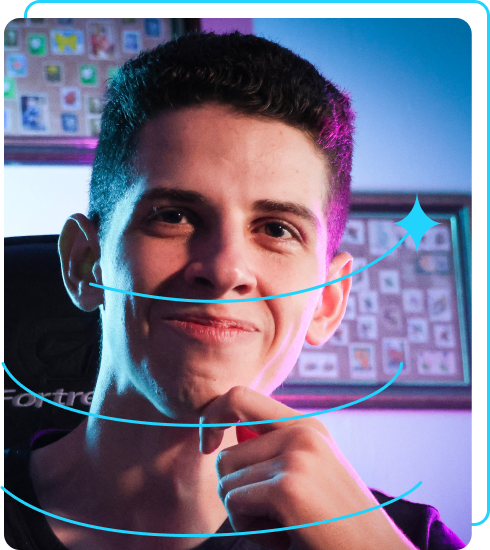
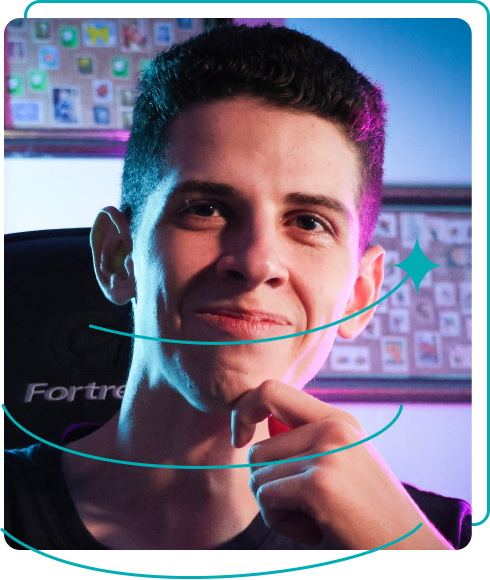
finalizing the about page, adding a variables in the css and changing the pallet color of the page.

diff --git a/assets/styles/style.css b/assets/styles/style.css
@@ -1,20 +1,24 @@
 @import url('https://fonts.googleapis.com/css2?family=Krona+One&family=Montserrat:wght@400;600&display=swap');
 
+:root {
+    --main-color : #222831;
+    --secondary-color: #EEEEEE;
+    --tertiary-color: #00ADB5;
+    --hover-color : #393E46;
+
+    --primary-font : 'Krona One', sans-serif;
+    --secondary-font : 'Montserrat', sans-serif;
+}
+
 * {
-    box-sizing: border-box;
     margin: 0;
     padding: 0;
 }
 
 body {
-    background-color: #000000;
-    color: #F6F6F6;
-}
-
-.header-title {
-    color: #F6F6F6;
-    border: 1px solid #22D4FD;
-    padding: 10px;
+    box-sizing: border-box;
+    background-color: var(--main-color);
+    color: var(--secondary-color);
 }
 
 .page-header {
@@ -27,11 +31,17 @@ body {
 }
 
 .page-header-menu-link {
-    font-family: 'Montserrat', sans-serif;
-    font-weight: 600;
+    font-family: var(--secondary-font);
     font-size: 24px;
-    color: #22D4FD;
+    font-weight: 600;
+    color: var(--tertiary-color);
     text-decoration: none;
+}
+
+.header-title {
+    color: var(--secondary-color);
+    border: 1px solid var(--tertiary-color);
+    padding: 10px;
 }
 
 .main-container {
@@ -51,16 +61,16 @@ body {
 
 .text-title {
     font-size: 36px;
-    font-family: 'Krona One', sans-serif;
+    font-family: var(--primary-font);
 }
 
 .highlight-title {
-    color: #22D4FD;
+    color: var(--tertiary-color);
 }
 
 .text-paragraph {
     font-size: 24px;
-    font-family: 'Montserrat', sans-serif;
+    font-family: var(--secondary-font);
 }
 
 .links-container {
@@ -72,7 +82,7 @@ body {
 }
 
 .links-subtitle {
-    font-family: 'Krona One', sans-serif;
+    font-family: var(--primary-font);
     font-weight: 400;
     font-size: 24px;
 }
@@ -81,29 +91,28 @@ body {
     display: flex;
     justify-content: center;
     gap: 16px;
-    color: #F6F6F6;
-    border: 2px solid #22D4FD;
+    border: 2px solid var(--tertiary-color);
     width: 378px;
     text-align: center;
     border-radius: 8px;
-    padding: 21.5px 0;
     font-size: 24px;
     font-weight: 600;
+    padding: 21.5px 0;
     text-decoration: none;
-    font-family: 'Montserrat', sans-serif;
+    color: var(--secondary-color);
+    font-family: var(--secondary-font);
 }
 
 .links-btn:hover {
-    background-color: #272727;
-    cursor: pointer;
+    background-color: var(--hover-color);
 }
 
 .page-footer {
     padding: 24px;
-    color: #000000;
-    background-color: #22D4FD;
+    color: var(--main-color);
+    background-color: var(--tertiary-color);
     text-align: center;
-    font-family: 'Montserrat', sans-serif;
+    font-family: var(--secondary-font);
     font-size: 24px;
     font-weight: 400;
 }

diff --git a/about.html b/about.html
@@ -14,11 +14,14 @@
             <a class="page-header-menu-link" href="./about.html">Sobre mim</a>
         </nav>
     </header>
-    <main>
-        <!-- <section>
-
+    <main class="main-container">
+        <section class="text-section">
+            <h1 class="text-title">Sobre mim</h1>
+            <p class="text-paragraph">At vero eos et accusamus et iusto odio dignissimos ducimus qui blanditiis praesentium voluptatum deleniti atque corrupti quos dolores et quas molestias excepturi sint occaecati cupiditate non provident, similique sunt in culpa qui officia deserunt mollitia animi, id est laborum et dolorum fuga.</p>
+            <p class="text-paragraph">Et harum quidem rerum facilis est et expedita distinctio. Nam libero tempore, cum soluta nobis est eligendi optio cumque nihil impedit quo minus id quod maxime placeat facere possimus, omnis voluptas assumenda est, omnis dolor repellendus. Temporibus autem quibusdam et aut officiis debitis aut rerum necessitatibus saepe eveniet ut et voluptates repudiandae sint et molestiae non recusandae. Itaque earum rerum hic tenetur a sapiente delectus, ut aut reiciendis voluptatibus maiores alias consequatur aut perferendis doloribus asperiores ipsum delis forum birol parela maxime infena. Excepteur sint occaecat cupidatat non.
+            </p>
         </section>
-        <img src="./assets/img/profile-picture.png" alt="Foto de perfil" class="profile-picture"> -->
+        <img src="./assets/img/profile-picture.png" alt="Foto de perfil">
     </main>
     <footer class="page-footer">
         <p>&copy; Copyright, João Vitor Lopes</p>

diff --git a/index.html b/index.html
@@ -32,7 +32,7 @@
                         src="./assets/img/twitter-novo.png" alt="Logo do X"> Twitter</a>
             </div>
         </section>
-        <img src="./assets/img/profile-picture.png" alt="Foto de perfil" class="profile-picture">
+        <img src="./assets/img/profile-picture.png" alt="Foto de perfil">
     </main>
     <footer class="page-footer">
         <p>&copy; Copyright, João Vitor Lopes</p>
